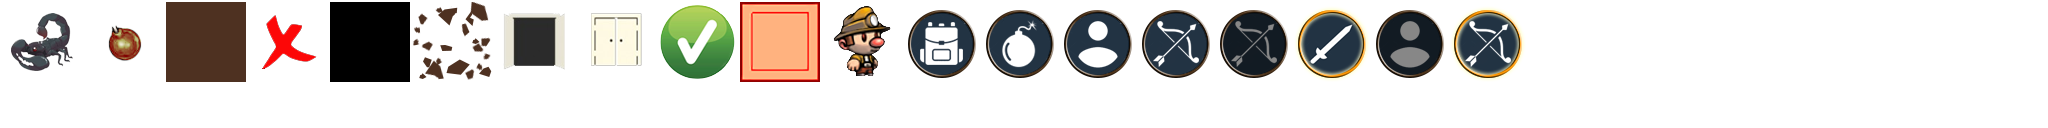
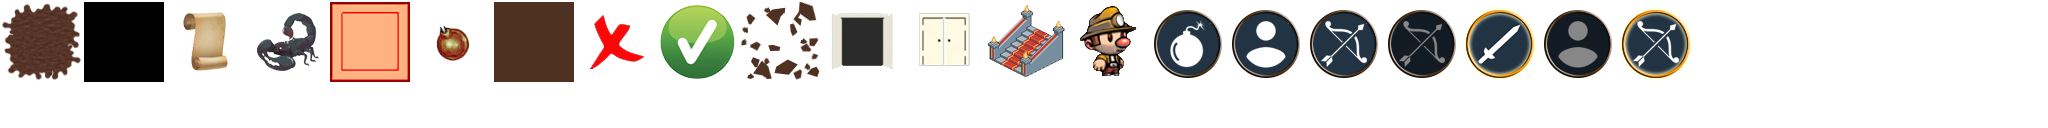
Added the tutorial page 1 + improved the ItemEnum + small improvements in item popins

diff --git a/core/src/com/dokkaebistudio/tacticaljourney/items/ItemEnum.java b/core/src/com/dokkaebistudio/tacticaljourney/items/ItemEnum.java
@@ -27,14 +27,8 @@ public enum ItemEnum {
 		}
 		
 		@Override
-		public boolean pickUp(Entity picker, Entity item, Room room) {
-			InventoryComponent inventoryComponent = Mappers.inventoryComponent.get(picker);
-			if (inventoryComponent != null) {
-				if (!inventoryComponent.canStore()) return false;
-				
-				inventoryComponent.store(item, room);
-			}
-			return true;
+		public String getActionLabel() {
+			return "Drink";
 		}
 		
 		@Override
@@ -48,19 +42,31 @@ public enum ItemEnum {
 			room.entityFactory.createDamageDisplayer("25", gridPosCompo.coord(), true, room);
 			return true;
 		}
-
+	},
+	
+	
+	/** A tutorial page. */
+	TUTORIAL_PAGE_1("Tutorial page 1", Assets.tutorial_page_item, false) {
+		
 		@Override
-		public boolean drop(Entity user, Entity item, Room room) {
-			InventoryComponent inventoryComponent = Mappers.inventoryComponent.get(user);
-			inventoryComponent.remove(item);
-			
-			GridPositionComponent playerPosCompo = Mappers.gridPositionComponent.get(user);
-			GridPositionComponent itemPosCompo = Mappers.gridPositionComponent.get(item);
-			itemPosCompo.coord().set(playerPosCompo.coord());
-			itemPosCompo.setActive(item, room);
-			return true;
+		public String getDescription() {
+			return "Welcome to Tactical Journey.\n"
+					+ "You won't be assisted much in this game so go explore and try to understand it by yourself.";		
 		}
+		
+		@Override
+		public String getActionLabel() {
+			return "Tear";
+		}
+		
+		@Override
+		public boolean use(Entity user, Entity item, Room room) {return true;}
+
 	};
+	
+	
+	
+	
 	
 	/** The name displayed. */
 	private String label;
@@ -80,16 +86,36 @@ public enum ItemEnum {
 	// Abstract methods
 	
 	/** Called when the item is picked up. */
-	public abstract boolean pickUp(Entity picker, Entity item, Room room);
+	public boolean pickUp(Entity picker, Entity item, Room room) {
+		InventoryComponent inventoryComponent = Mappers.inventoryComponent.get(picker);
+		if (inventoryComponent != null) {
+			if (!inventoryComponent.canStore()) return false;
+			
+			inventoryComponent.store(item, room);
+		}
+		return true;
+	}
 	
 	/** Called when the item is used. */
 	public abstract boolean use(Entity user, Entity item, Room room);
 	
 	/** Called when the item is removed from an entity. */
-	public abstract boolean drop(Entity picker, Entity item, Room room);
+	public boolean drop(Entity picker, Entity item, Room room) {
+		InventoryComponent inventoryComponent = Mappers.inventoryComponent.get(picker);
+		inventoryComponent.remove(item);
+		
+		GridPositionComponent playerPosCompo = Mappers.gridPositionComponent.get(picker);
+		GridPositionComponent itemPosCompo = Mappers.gridPositionComponent.get(item);
+		itemPosCompo.coord().set(playerPosCompo.coord());
+		itemPosCompo.setActive(item, room);
+		return true;
+	}
 
 	/** Return the description of the item. */
 	public abstract String getDescription();
+	
+	/** Return the label on the action button for the item. */
+	public abstract String getActionLabel();
 	
 	
 	

diff --git a/core/src/com/dokkaebistudio/tacticaljourney/factory/EntityFactory.java b/core/src/com/dokkaebistudio/tacticaljourney/factory/EntityFactory.java
@@ -620,6 +620,38 @@ public final class EntityFactory {
 	}
 	
 	/**
+	 * Create a tutorial page.
+	 * @param tilePos the position in tiles
+	 * @return the entity created
+	 */
+	public Entity createItemTutorialPage(Room room, Vector2 tilePos) {
+		Entity item = engine.createEntity();
+		item.flags = EntityFlagEnum.ITEM_TUTORIAL_PAGE.getFlag();
+
+		SpriteComponent spriteCompo = engine.createComponent(SpriteComponent.class);
+		spriteCompo.setSprite(new Sprite(Assets.getTexture(Assets.tutorial_page_item)));
+		item.add(spriteCompo);
+
+		if (tilePos != null) {
+			GridPositionComponent gridPosition = engine.createComponent(GridPositionComponent.class);
+			gridPosition.coord(item, tilePos, room);
+			gridPosition.zIndex = 8;
+			item.add(gridPosition);
+		}
+		
+		ItemComponent itemCompo = engine.createComponent(ItemComponent.class);
+		itemCompo.setItemType(ItemEnum.TUTORIAL_PAGE_1);
+		item.add(itemCompo);
+		
+    	DestructibleComponent destructibleCompo = engine.createComponent(DestructibleComponent.class);
+    	item.add(destructibleCompo);
+		
+		engine.addEntity(item);
+
+		return item;
+	}
+	
+	/**
 	 * Create a bomb that explodes after x turns.
 	 * @param room the parent room
 	 * @param tilePos the position in tiles

diff --git a/core/src/com/dokkaebistudio/tacticaljourney/room/Room.java b/core/src/com/dokkaebistudio/tacticaljourney/room/Room.java
@@ -289,8 +289,9 @@ public class Room extends EntitySystem {
 			
 		case START_FLOOR_ROOM:
 			
-			entityFactory.createItemHealthUp(this, new Vector2(11, 9));
-
+			entityFactory.createItemHealthUp(this, new Vector2(5, 3));
+			entityFactory.createItemTutorialPage(this, new Vector2(8, 9));
+			
 			
 //			Entity enemy = entityFactory.enemyFactory.createSpider(this, new Vector2(11, 8), 1);
 //			enemies.add(enemy);

diff --git a/core/src/com/dokkaebistudio/tacticaljourney/rendering/InventoryPopinRenderer.java b/core/src/com/dokkaebistudio/tacticaljourney/rendering/InventoryPopinRenderer.java
@@ -269,6 +269,7 @@ public class InventoryPopinRenderer implements Renderer, RoomSystem {
 		// Update the content
 		itemTitle.setText(itemComponent.getItemType().getLabel());
 		itemDesc.setText(itemComponent.getItemType().getDescription());
+		useItemBtn.setText(itemComponent.getItemType().getActionLabel());
 		
 		// Update the Drop item listener
 		updateDropListener(item, slot, itemComponent);

diff --git a/core/src/com/dokkaebistudio/tacticaljourney/systems/ItemSystem.java b/core/src/com/dokkaebistudio/tacticaljourney/systems/ItemSystem.java
@@ -159,6 +159,7 @@ public class ItemSystem extends EntitySystem implements RoomSystem {
 					System.out.println("Used a " + itemComponent.getItemType().getLabel());
 
 					playerIventoryCompo.remove(currentItem);
+					room.removeEntity(currentItem);
 					room.turnManager.endPlayerTurn();
 				} else {
 					System.out.println("Impossible to use the " + itemComponent.getItemType().getLabel());

diff --git a/core/src/com/dokkaebistudio/tacticaljourney/rendering/ItemPopinRenderer.java b/core/src/com/dokkaebistudio/tacticaljourney/rendering/ItemPopinRenderer.java
@@ -91,6 +91,7 @@ public class ItemPopinRenderer implements Renderer, RoomSystem {
 			// Update the content
 			itemTitle.setText(itemComponent.getItemType().getLabel());
 			itemDesc.setText(itemComponent.getItemType().getDescription());
+			useItemBtn.setText(itemComponent.getItemType().getActionLabel());
 			
 			// Update the Drop item listener
 			updatePickupListener(item, itemComponent);

diff --git a/core/src/com/dokkaebistudio/tacticaljourney/Assets.java b/core/src/com/dokkaebistudio/tacticaljourney/Assets.java
@@ -120,6 +120,8 @@ public class Assets {
 	//******
 	// Items
 	
+	public static final String tutorial_page_item = "item-tutorial-page";
+
 	public static final String health_up_item = "item-consumable-health-up";
 	public static final String arrow_item = "item-consumable-arrow";
 	public static final String bomb_item = "item-consumable-bomb";

diff --git a/core/src/com/dokkaebistudio/tacticaljourney/factory/EntityFlagEnum.java b/core/src/com/dokkaebistudio/tacticaljourney/factory/EntityFlagEnum.java
@@ -36,8 +36,8 @@ public enum EntityFlagEnum {
 	BOMB(600),
 	EXPLOSION_EFFECT(601),
 
-	
-	ITEM_HEALTH_UP(1000);
+	ITEM_TUTORIAL_PAGE(1000),
+	ITEM_HEALTH_UP(1001);
 	
 	private int flag;
 	
